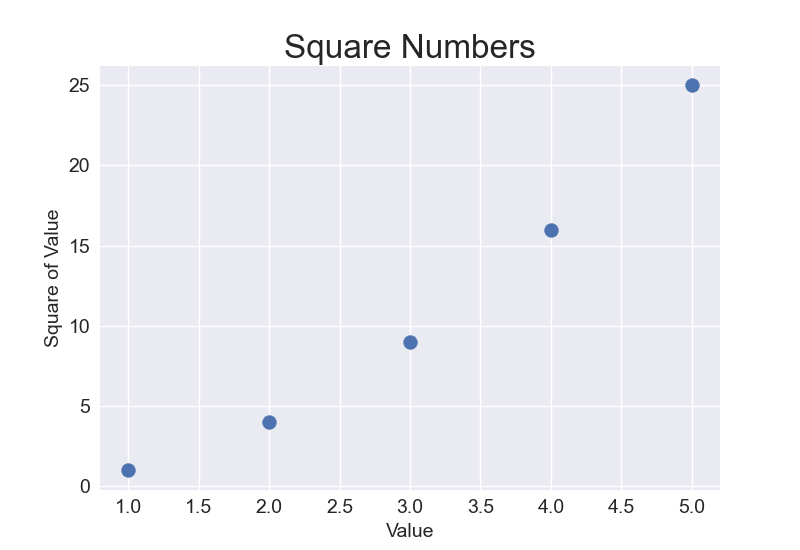
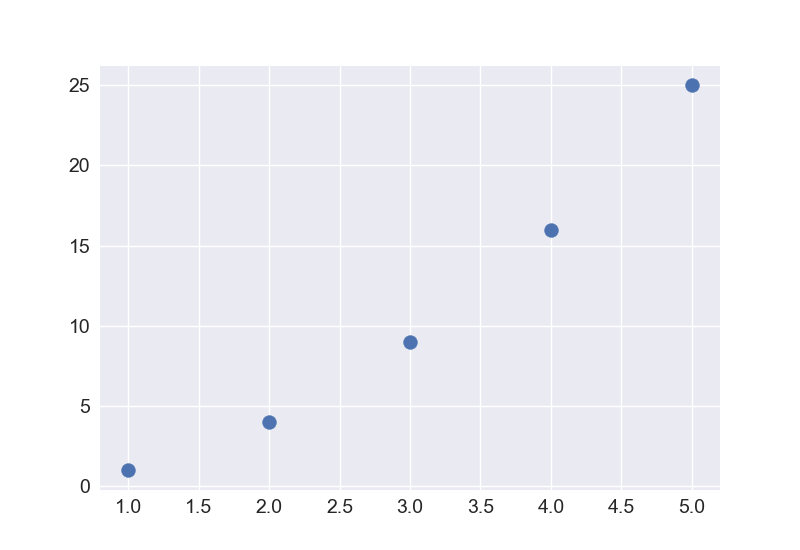
plots

Changed region(s): [[0.3438, 0.0618, 0.6875, 0.1236], [0.0625, 0.3709, 0.0938, 0.6182], [0.4688, 0.9582, 0.5625, 0.9891]]

diff --git a/Plotting_App/scatter_squares.py b/Plotting_App/scatter_squares.py
@@ -31,3 +31,13 @@ y_values = [1, 4, 9, 16, 25]
 
 plt.style.use('seaborn-v0_8')
 fig, ax = plt.subplots()
+ax.scatter(x_values, y_values, s=100)
+
+# Setting the size of tick labels
+ax.tick_params(axis='both', which='major', labelsize=14)
+
+# Showing the plot
+plt.show()
+
+# Saving the plot to a file
+fig.savefig('scatter_plot.png')
